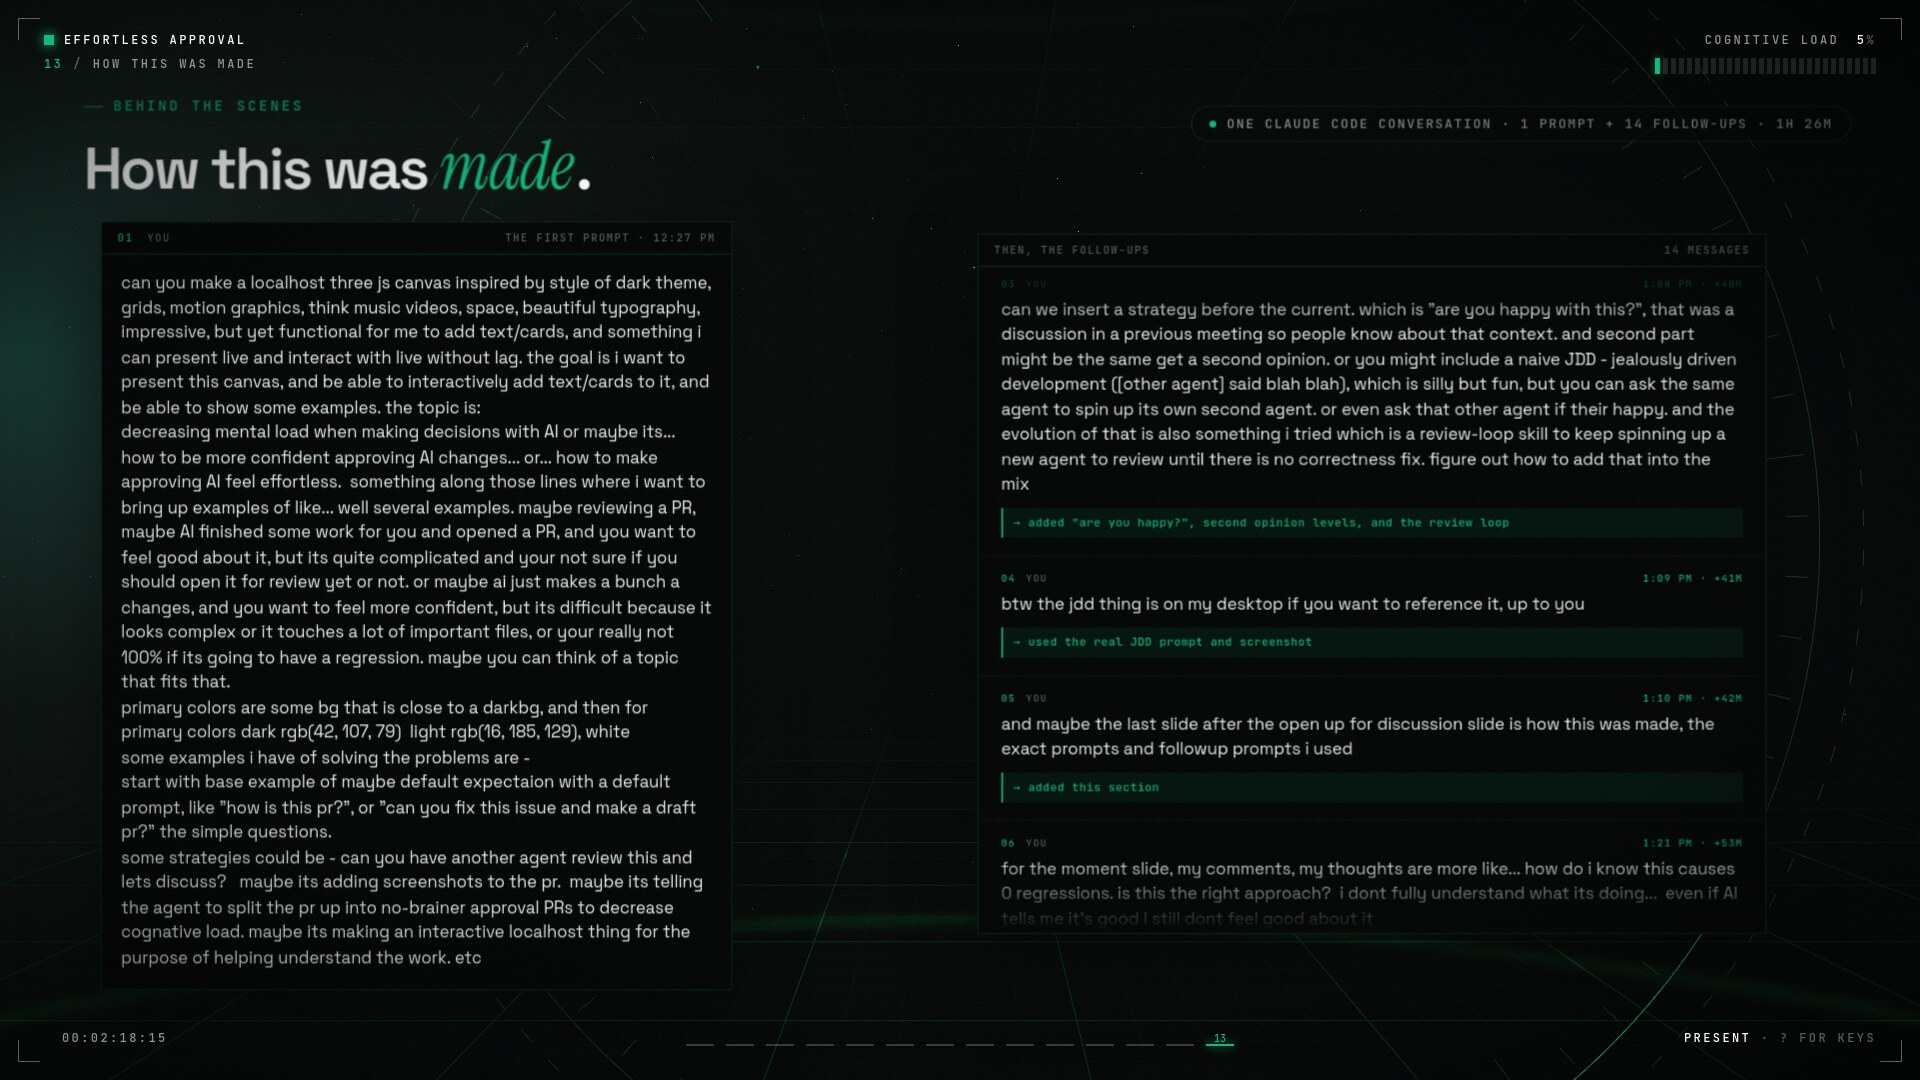
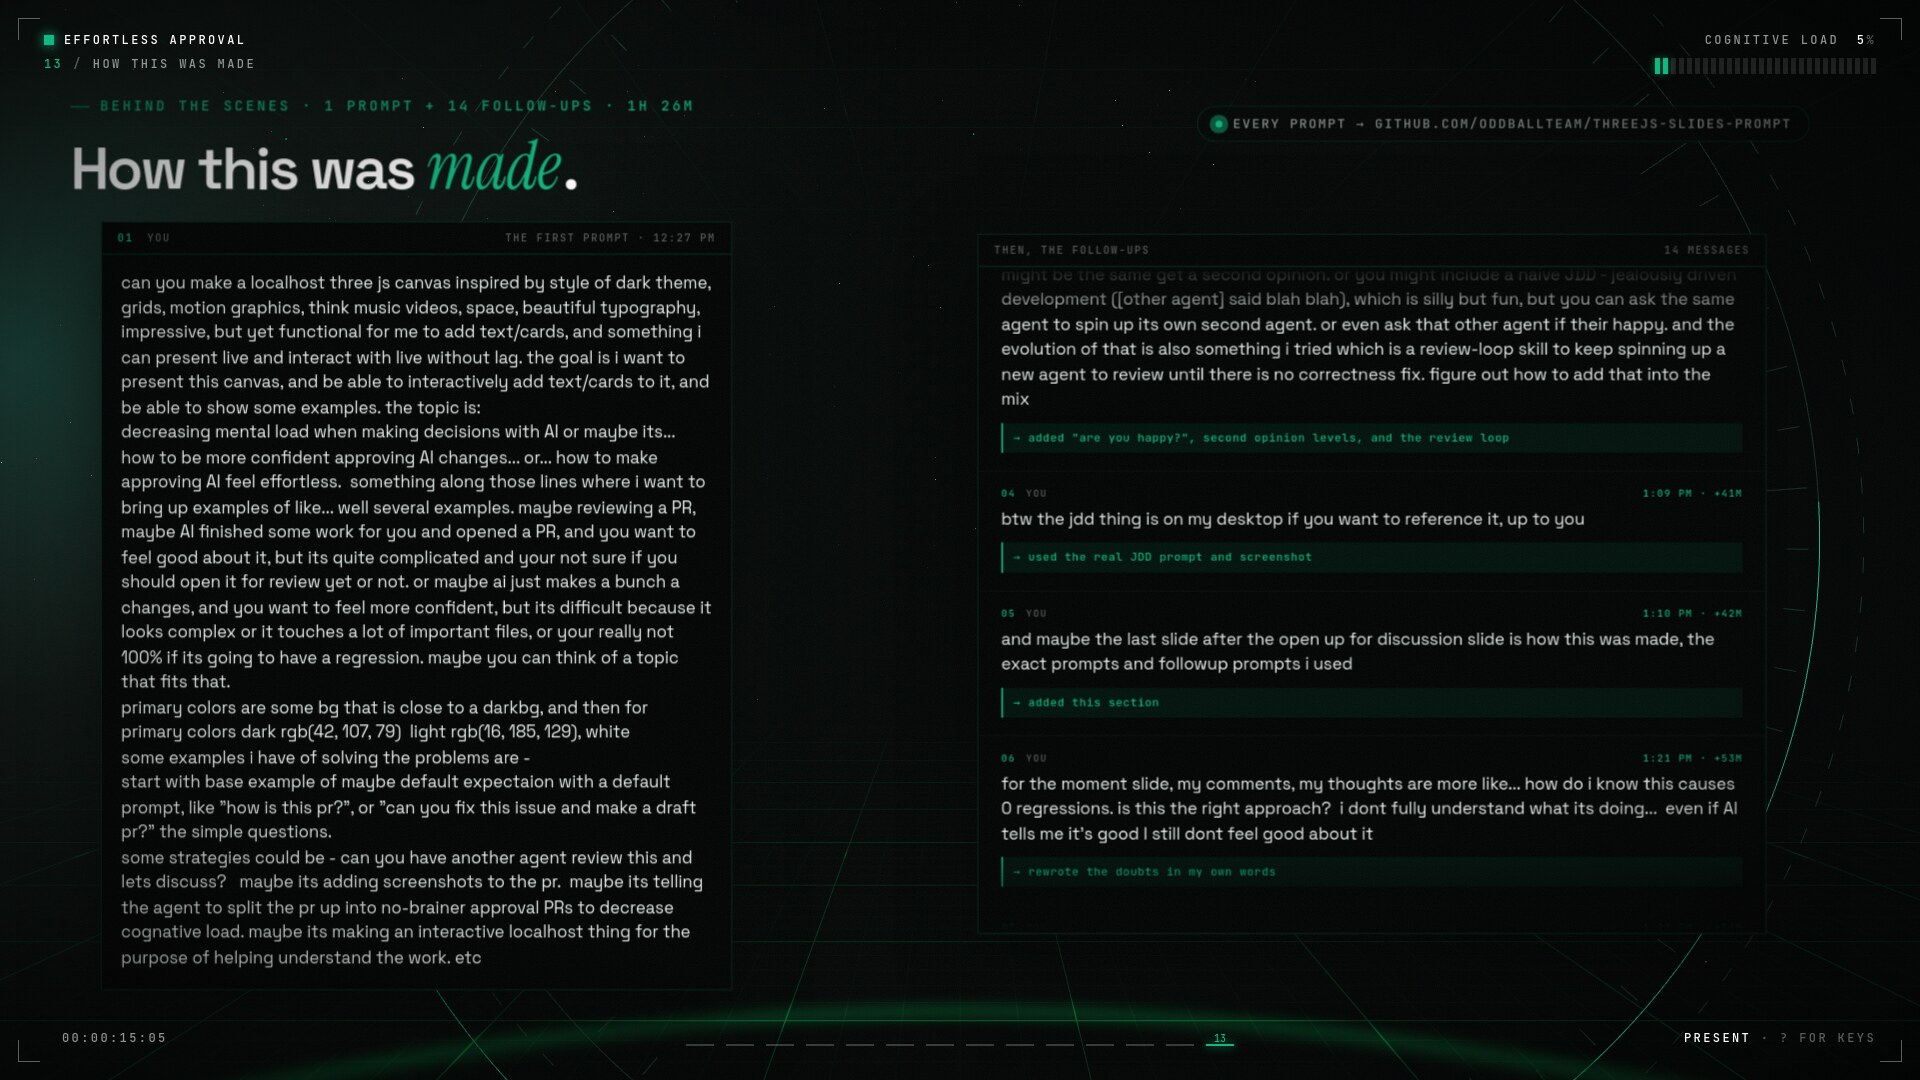
Reframe around the prompt

diff --git a/README.md b/README.md
@@ -1,8 +1,112 @@
-# Effortless Approval
+# three.js slides prompt
 
-Talk on making AI changes easy to say yes to. Built as a three.js canvas in one Claude Code conversation: 1 prompt + 14 follow-ups, about 1h 26m. Every prompt is below, typos and all.
+Prompt I used to build a three.js presentation canvas with Claude Code (Opus 5.5). Swap in your own topic and colors and go.
 
-## Slides
+## The prompt
+
+> can you make a localhost three js canvas inspired by style of dark theme, grids, motion graphics, think music videos, space, beautiful typography, impressive, but yet functional for me to add text/cards, and something i can present live and interact with live without lag. the goal is i want to present this canvas, and be able to interactively add text/cards to it, and be able to show some examples. the topic is:
+> decreasing mental load when making decisions with AI or maybe its... how to be more confident approving AI changes... or... how to make approving AI feel effortless.  something along those lines where i want to bring up examples of like... well several examples. maybe reviewing a PR, maybe AI finished some work for you and opened a PR, and you want to feel good about it, but its quite complicated and your not sure if you should open it for review yet or not. or maybe ai just makes a bunch a changes, and you want to feel more confident, but its difficult because it looks complex or it touches a lot of important files, or your really not 100% if its going to have a regression. maybe you can think of a topic that fits that.
+> primary colors are some bg that is close to a darkbg, and then for primary colors dark rgb(42, 107, 79)  light rgb(16, 185, 129), white
+> some examples i have of solving the problems are -
+> start with base example of maybe default expectaion with a default prompt, like "how is this pr?", or "can you fix this issue and make a draft pr?" the simple questions.
+> some strategies could be - can you have another agent review this and lets discuss?   maybe its adding screenshots to the pr.  maybe its telling the agent to split the pr up into no-brainer approval PRs to decrease cognative load. maybe its making an interactive localhost thing for the purpose of helping understand the work. etc
+
+## Follow-ups
+
+How it got from first draft to done, in 1h 26m. Times are US Central, Oct 8 2026. Typos and all.
+
+### 01 · 12:59 PM · +31m
+
+> for the moment slide - maybe... different title. maybe a cute little claude character pops up with job done! or something, and you in response.. maybe something a human would think about ... i mean it helps to visualize the diff thing as more than just _1284. maybe you want to make it bigger feel like tons of changes. so the human looks at it and is questioning whether its really ok, any regressions
+
+→ added the agent character, the diff wall, and the doubts
+
+### 02 · 1:08 PM · +40m
+
+> can we insert a strategy before the current. which is "are you happy with this?", that was a discussion in a previous meeting so people know about that context. and second part might be the same get a second opinion. or you might include a naive JDD - jealously driven development ([other agent] said blah blah), which is silly but fun, but you can ask the same agent to spin up its own second agent. or even ask that other agent if their happy. and the evolution of that is also something i tried which is a review-loop skill to keep spinning up a new agent to review until there is no correctness fix. figure out how to add that into the mix
+
+→ added "are you happy?", second opinion levels, and the review loop
+
+### 03 · 1:09 PM · +41m
+
+> btw the jdd thing is on my desktop if you want to reference it, up to you
+
+→ used the real JDD prompt and screenshot
+
+### 04 · 1:10 PM · +42m
+
+> and maybe the last slide after the open up for discussion slide is how this was made, the exact prompts and followup prompts i used
+
+→ added this section
+
+### 05 · 1:21 PM · +53m
+
+> for the moment slide, my comments, my thoughts are more like... how do i know this causes 0 regressions. is this the right approach?  i dont fully understand what its doing...  even if AI tells me it's good I still dont feel good about it
+
+→ rewrote the doubts in my own words
+
+### 06 · 1:22 PM · +54m
+
+> and for "how is this pr?" the agent usually does a good job at leaving crituqe, it rarely says lgtm in practice. but usually its comments .. theres quite a lot.. and i dont fully know if it makes more confident
+
+→ swapped "LGTM" for a wall of 14 comments and no verdict
+
+### 07 · 1:27 PM · +1h 0m
+
+> review loop needs correcting, need to explain the concept. the concept is... the agent you are chatting with, .. instead of you reaching for another agent to see what it thinkgs, just tell the agent you're chatting with to do what you would have done. but in a loop, until there is no correctness fix, and KEY, you must not agree to everything it suggests, you have more context than it. you need 2 agents to pass in a row with no correctness fix before proceeding. thats the concept. it also exposes that a fresh reviewer often suggests things that you already thought through and decided against
+
+→ rebuilt the loop: triage, pushback, two clean passes
+
+### 08 · 1:33 PM · +1h 5m
+
+> some of the prompts could be simplified
+> e.g.
+> "have another agent review this" is enough
+> or "ask another agent if its happy with this"
+> or "do a loop asking a nother agent thoughts on this pr until there is no correctness fix 2 times in a row. dont trust everything they say use your best judgement"
+
+→ shortened every prompt
+
+### 09 · 1:38 PM · +1h 10m
+
+> split into no brainers slide , the black box is overlapping the title. and the localhost thing, maybe you want to make a canvas/uml instead. maybe the prompt should be, make me a localhost canvas to help break down this work for me or something, so the preview is not a 1 2 3 4. its more like a uml
+
+→ drew a UML canvas of the PR
+
+### 10 · 1:39 PM · +1h 12m
+
+> prove it  could instead be like... prove with artifacts. a QA checklist, a consumer PR using it, new CI tests, something tangable. it could be a sandbox or put you into the exact situation or a flag so you can see before after easily, many methods
+
+→ turned "prove it" into six artifacts
+
+### 11 · 1:45 PM · +1h 17m
+
+> instead of ask for verdict. hmm. put all proof in the draft PR, the one place to look ? iterate on the draft PR with the agent until its ready for others
+
+→ new strategy: one place to look
+
+### 12 · 1:45 PM · +1h 18m
+
+> basically proof should be public, not in chat
+> not only is it for your eyes, but reveiwers
+> it should feel easy for both you and reviewers
+
+→ "proof is public, not in chat"
+
+### 13 · 1:52 PM · +1h 25m
+
+> the "split this into PRs i can approve black box prompt, is overalpping the title Split into no brainers.
+> also in how this was made, dont include the music video part. also you can include more of the discussion if you think its a good idea
+
+→ fixed the overlap and built this feed
+
+### 14 · 1:54 PM · +1h 26m
+
+> can you put timestamps too
+
+→ added these timestamps
+
+## What it made
 
 ![](slides/00-make-yes-effortless.jpg)
 
@@ -29,107 +133,3 @@ Talk on making AI changes easy to say yes to. Built as a three.js canvas in one 
 ![](slides/12-your-turn.jpg)
 
 ![](slides/13-how-this-was-made.jpg)
-
-## Prompts
-
-Times are US Central, Oct 8 2026.
-
-### 01 · 12:27 PM
-
-> can you make a localhost three js canvas inspired by style of dark theme, grids, motion graphics, think music videos, space, beautiful typography, impressive, but yet functional for me to add text/cards, and something i can present live and interact with live without lag. the goal is i want to present this canvas, and be able to interactively add text/cards to it, and be able to show some examples. the topic is:
-> decreasing mental load when making decisions with AI or maybe its... how to be more confident approving AI changes... or... how to make approving AI feel effortless.  something along those lines where i want to bring up examples of like... well several examples. maybe reviewing a PR, maybe AI finished some work for you and opened a PR, and you want to feel good about it, but its quite complicated and your not sure if you should open it for review yet or not. or maybe ai just makes a bunch a changes, and you want to feel more confident, but its difficult because it looks complex or it touches a lot of important files, or your really not 100% if its going to have a regression. maybe you can think of a topic that fits that.
-> primary colors are some bg that is close to a darkbg, and then for primary colors dark rgb(42, 107, 79)  light rgb(16, 185, 129), white
-> some examples i have of solving the problems are -
-> start with base example of maybe default expectaion with a default prompt, like "how is this pr?", or "can you fix this issue and make a draft pr?" the simple questions.
-> some strategies could be - can you have another agent review this and lets discuss?   maybe its adding screenshots to the pr.  maybe its telling the agent to split the pr up into no-brainer approval PRs to decrease cognative load. maybe its making an interactive localhost thing for the purpose of helping understand the work. etc
-
-### 02 · 12:59 PM · +31m
-
-> for the moment slide - maybe... different title. maybe a cute little claude character pops up with job done! or something, and you in response.. maybe something a human would think about ... i mean it helps to visualize the diff thing as more than just _1284. maybe you want to make it bigger feel like tons of changes. so the human looks at it and is questioning whether its really ok, any regressions
-
-→ added the agent character, the diff wall, and the doubts
-
-### 03 · 1:08 PM · +40m
-
-> can we insert a strategy before the current. which is "are you happy with this?", that was a discussion in a previous meeting so people know about that context. and second part might be the same get a second opinion. or you might include a naive JDD - jealously driven development ([other agent] said blah blah), which is silly but fun, but you can ask the same agent to spin up its own second agent. or even ask that other agent if their happy. and the evolution of that is also something i tried which is a review-loop skill to keep spinning up a new agent to review until there is no correctness fix. figure out how to add that into the mix
-
-→ added "are you happy?", second opinion levels, and the review loop
-
-### 04 · 1:09 PM · +41m
-
-> btw the jdd thing is on my desktop if you want to reference it, up to you
-
-→ used the real JDD prompt and screenshot
-
-### 05 · 1:10 PM · +42m
-
-> and maybe the last slide after the open up for discussion slide is how this was made, the exact prompts and followup prompts i used
-
-→ added this section
-
-### 06 · 1:21 PM · +53m
-
-> for the moment slide, my comments, my thoughts are more like... how do i know this causes 0 regressions. is this the right approach?  i dont fully understand what its doing...  even if AI tells me it's good I still dont feel good about it
-
-→ rewrote the doubts in my own words
-
-### 07 · 1:22 PM · +54m
-
-> and for "how is this pr?" the agent usually does a good job at leaving crituqe, it rarely says lgtm in practice. but usually its comments .. theres quite a lot.. and i dont fully know if it makes more confident
-
-→ swapped "LGTM" for a wall of 14 comments and no verdict
-
-### 08 · 1:27 PM · +1h 0m
-
-> review loop needs correcting, need to explain the concept. the concept is... the agent you are chatting with, .. instead of you reaching for another agent to see what it thinkgs, just tell the agent you're chatting with to do what you would have done. but in a loop, until there is no correctness fix, and KEY, you must not agree to everything it suggests, you have more context than it. you need 2 agents to pass in a row with no correctness fix before proceeding. thats the concept. it also exposes that a fresh reviewer often suggests things that you already thought through and decided against
-
-→ rebuilt the loop: triage, pushback, two clean passes
-
-### 09 · 1:33 PM · +1h 5m
-
-> some of the prompts could be simplified
-> e.g.
-> "have another agent review this" is enough
-> or "ask another agent if its happy with this"
-> or "do a loop asking a nother agent thoughts on this pr until there is no correctness fix 2 times in a row. dont trust everything they say use your best judgement"
-
-→ shortened every prompt
-
-### 10 · 1:38 PM · +1h 10m
-
-> split into no brainers slide , the black box is overlapping the title. and the localhost thing, maybe you want to make a canvas/uml instead. maybe the prompt should be, make me a localhost canvas to help break down this work for me or something, so the preview is not a 1 2 3 4. its more like a uml
-
-→ drew a UML canvas of the PR
-
-### 11 · 1:39 PM · +1h 12m
-
-> prove it  could instead be like... prove with artifacts. a QA checklist, a consumer PR using it, new CI tests, something tangable. it could be a sandbox or put you into the exact situation or a flag so you can see before after easily, many methods
-
-→ turned "prove it" into six artifacts
-
-### 12 · 1:45 PM · +1h 17m
-
-> instead of ask for verdict. hmm. put all proof in the draft PR, the one place to look ? iterate on the draft PR with the agent until its ready for others
-
-→ new strategy: one place to look
-
-### 13 · 1:45 PM · +1h 18m
-
-> basically proof should be public, not in chat
-> not only is it for your eyes, but reveiwers
-> it should feel easy for both you and reviewers
-
-→ "proof is public, not in chat"
-
-### 14 · 1:52 PM · +1h 25m
-
-> the "split this into PRs i can approve black box prompt, is overalpping the title Split into no brainers.
-> also in how this was made, dont include the music video part. also you can include more of the discussion if you think its a good idea
-
-→ fixed the overlap and built this feed
-
-### 15 · 1:54 PM · +1h 26m
-
-> can you put timestamps too
-
-→ added these timestamps
